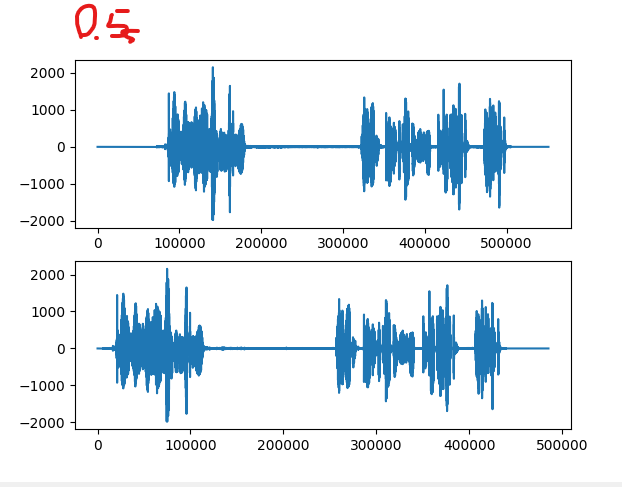
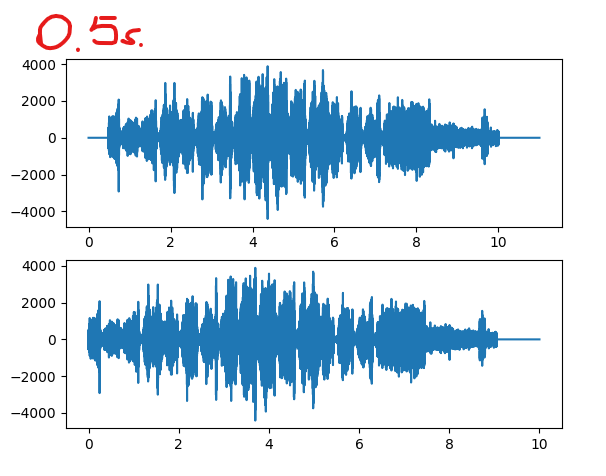
Lab 02

Changed region(s): [[0.0297, 0.0, 0.9505, 0.9412]]

diff --git a/Systemy multimedialne/Lab2/Obraz_Dzwiek.py b/Systemy multimedialne/Lab2/Obraz_Dzwiek.py
@@ -101,12 +101,27 @@ def zad2():
     buffer= np.zeros(((N+1)*FS,2))
     Frame_buffer = np.zeros(((N+1)*FS,2))
     frame_idx=0
-    delay=0*FS
+    delay=1
+
+    silent_buffer=np.zeros((int((delay+1)*FS),2))
     stream.start_stream()
     while stream.is_active():
         time.sleep(N)
         stream.stop_stream()
     stream.close()
+
+    print(silent_buffer.shape)
+    print(Frame_buffer.shape)
+
+    
+    x=[]
+    x.extend(silent_buffer[:,0].tolist())
+    x.extend(Frame_buffer[:,0].tolist())
+    plt.subplot(2,1,1)
+    plt.plot(x)
+    plt.subplot(2,1,2)
+    plt.plot(Frame_buffer[:,0])
+    plt.show()
 
 
 
@@ -120,8 +135,8 @@ CHUNK = 1024
 
 #1 - sluchawki mikro
 #2 - slucahwy
-#zad2()
-zad1()
+zad2()
+#zad1()
 
 
 
